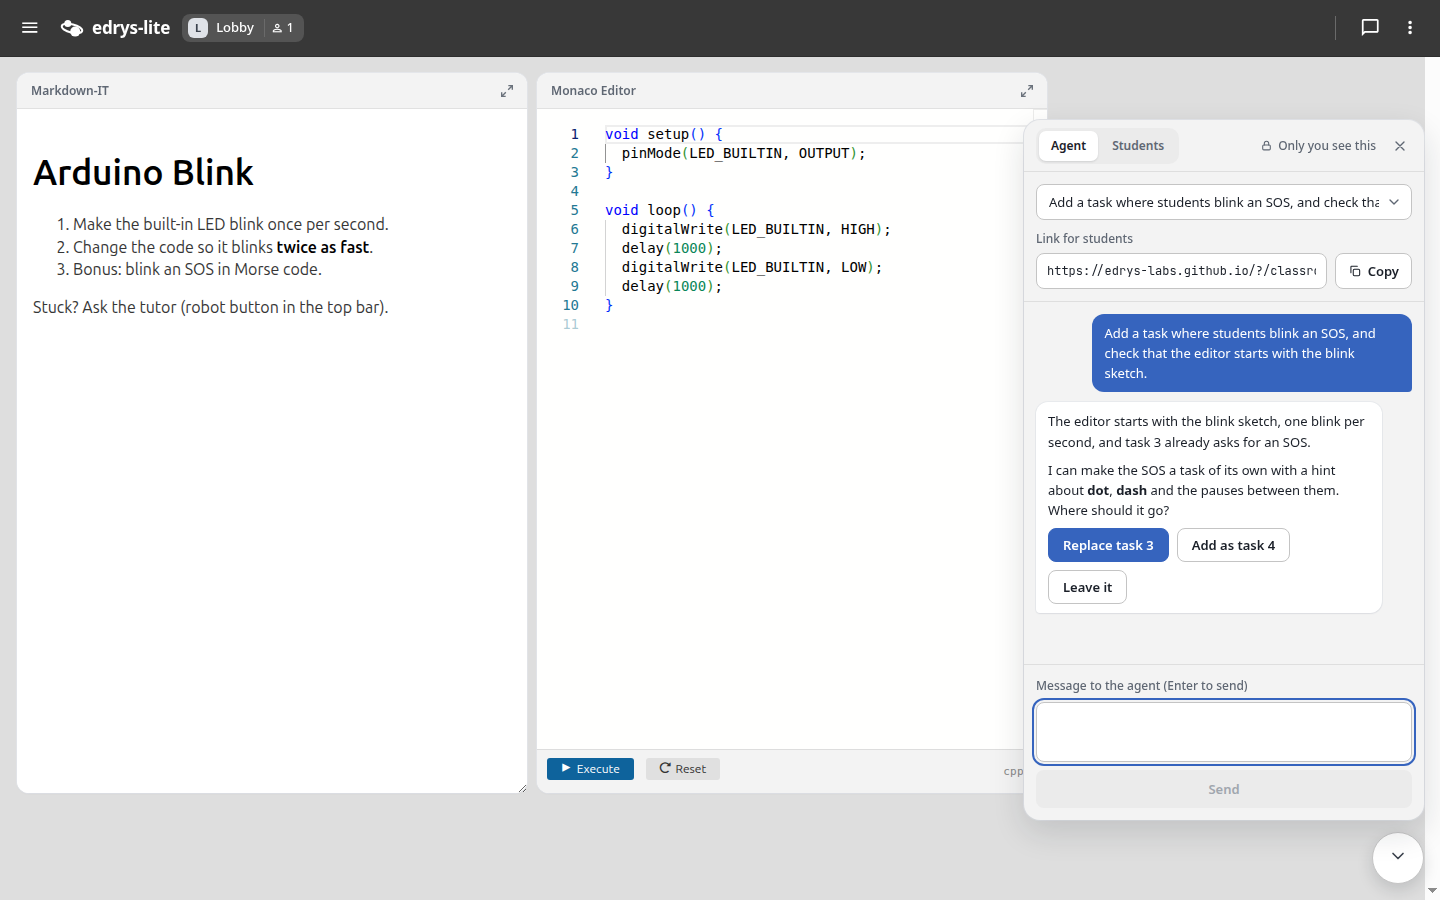
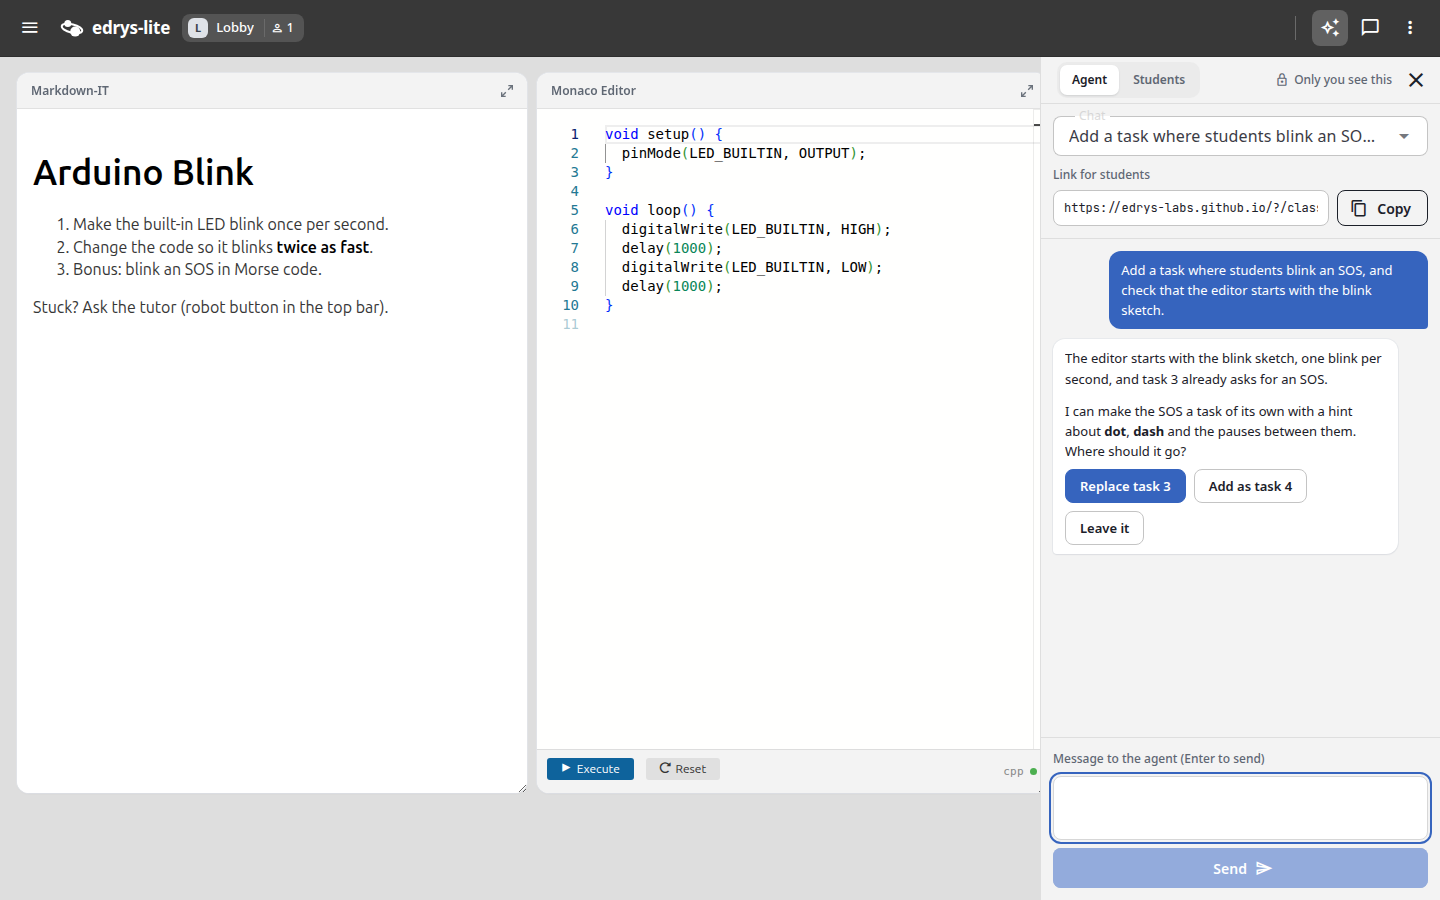
agent chat: opens from the sparkles button in the top bar, docked next to the class; new screenshots of it and of the tutor

diff --git a/README.md b/README.md
@@ -718,7 +718,7 @@ This creates `my-lab` with a starter `lab.yml`, the agent configuration and inst
 Open the folder in your agent and write "start": the agent starts edrys-dev itself, so don't start it by hand as well.
 
     --{{1}}--
-In your class tab, the round button with the sparkles at the bottom right opens the chat with your agent.
+In your class tab, the button with the sparkles in the top bar opens the chat with your agent, on the right side of the class next to the class chat. Drag its left edge to make it wider.
 Only you see this chat; it is not the class chat. The agent answers with text, and sometimes with buttons or checkboxes for you to pick from.
 At the top, `Link for students` is the link to send to your class, with a `Copy` button.
 
@@ -776,7 +776,7 @@ npx @edryslabs/edrys-dev lab.yml --tutor
 ```
 
     --{{1}}--
-In your class tab, the `Students` view of the chat panel shows every question and answer as it happens.
+In your class tab, the `Students` view of the agent chat (sparkles button) shows every question and answer as it happens.
 The switch `Tutor answers students` turns the tutor off and on without a restart; while it is off, students can't use the tutor.
 
       {{1}}
